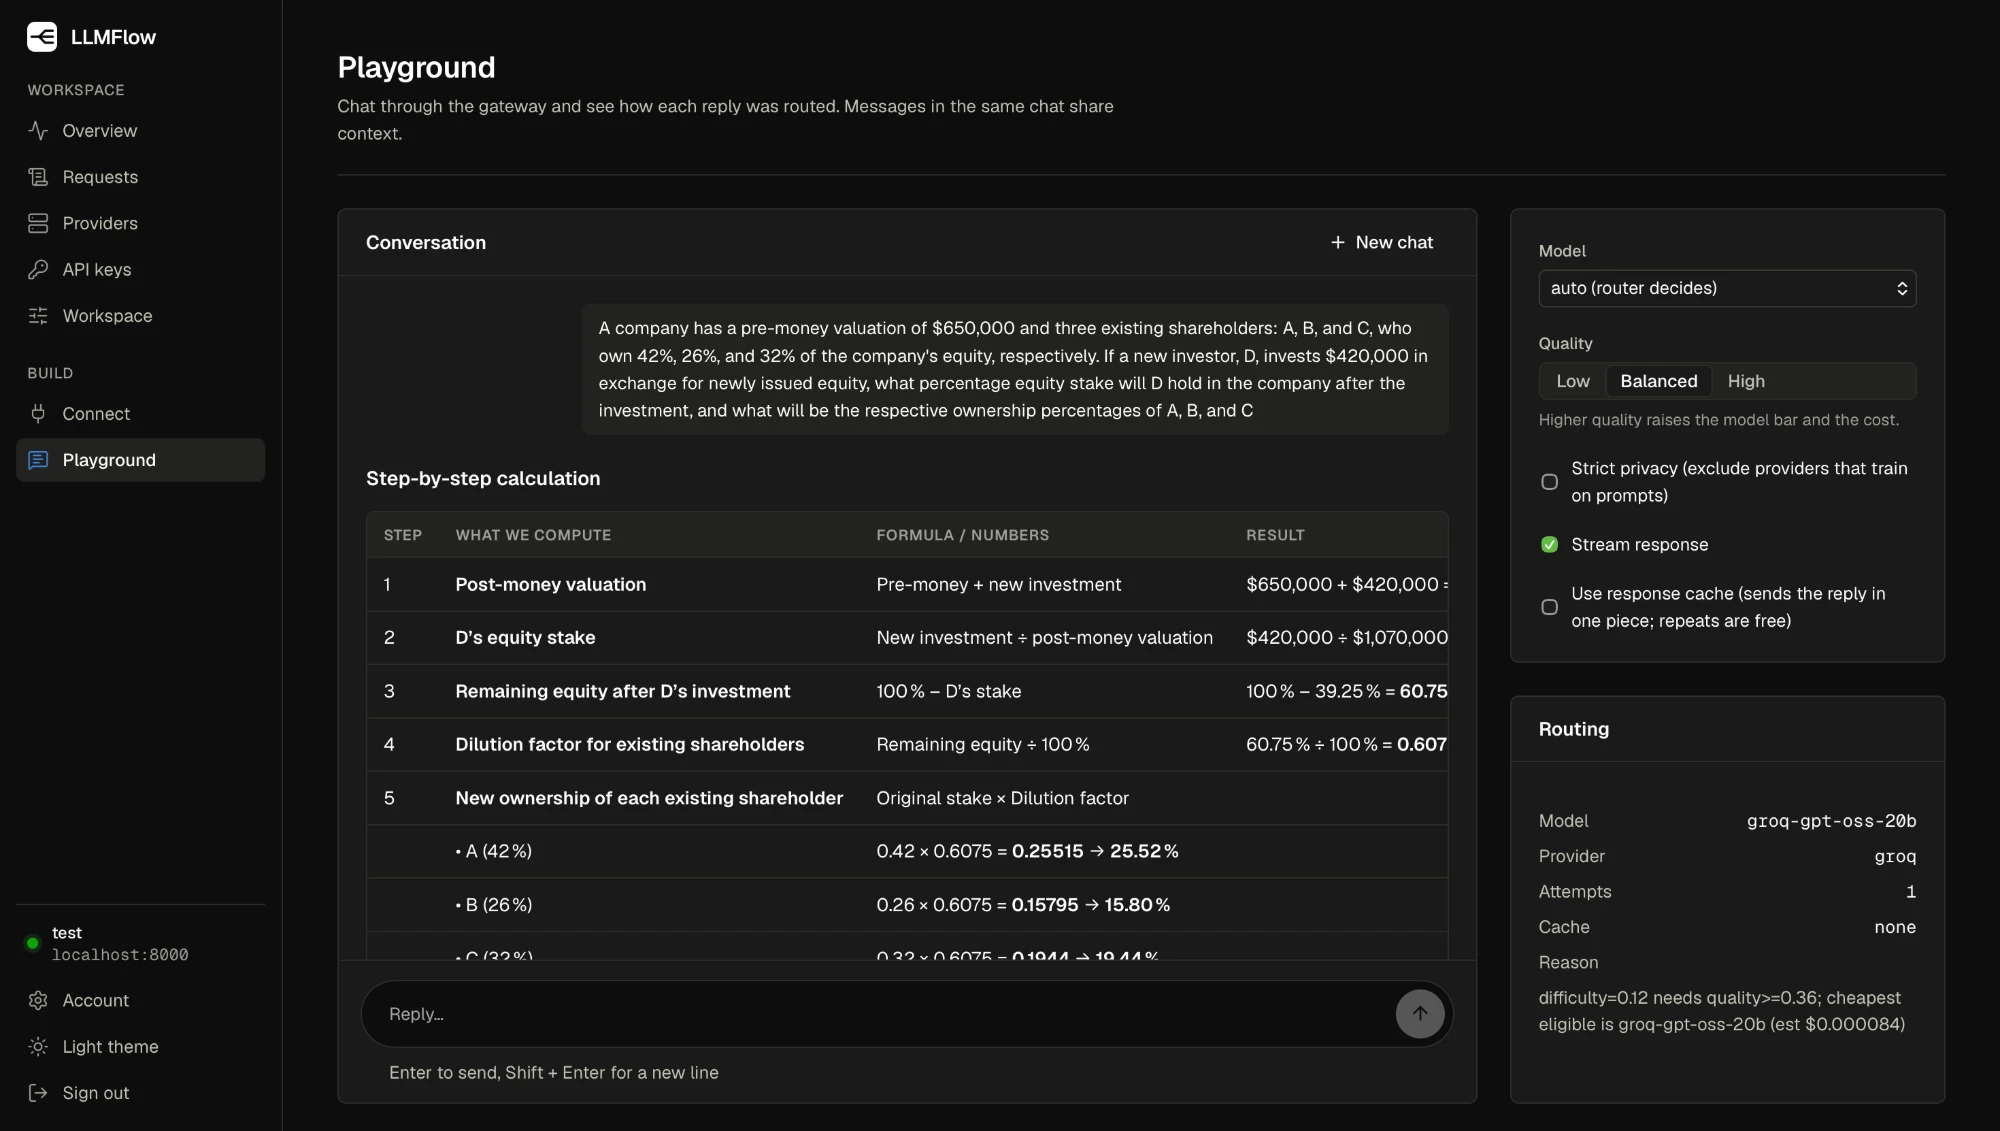
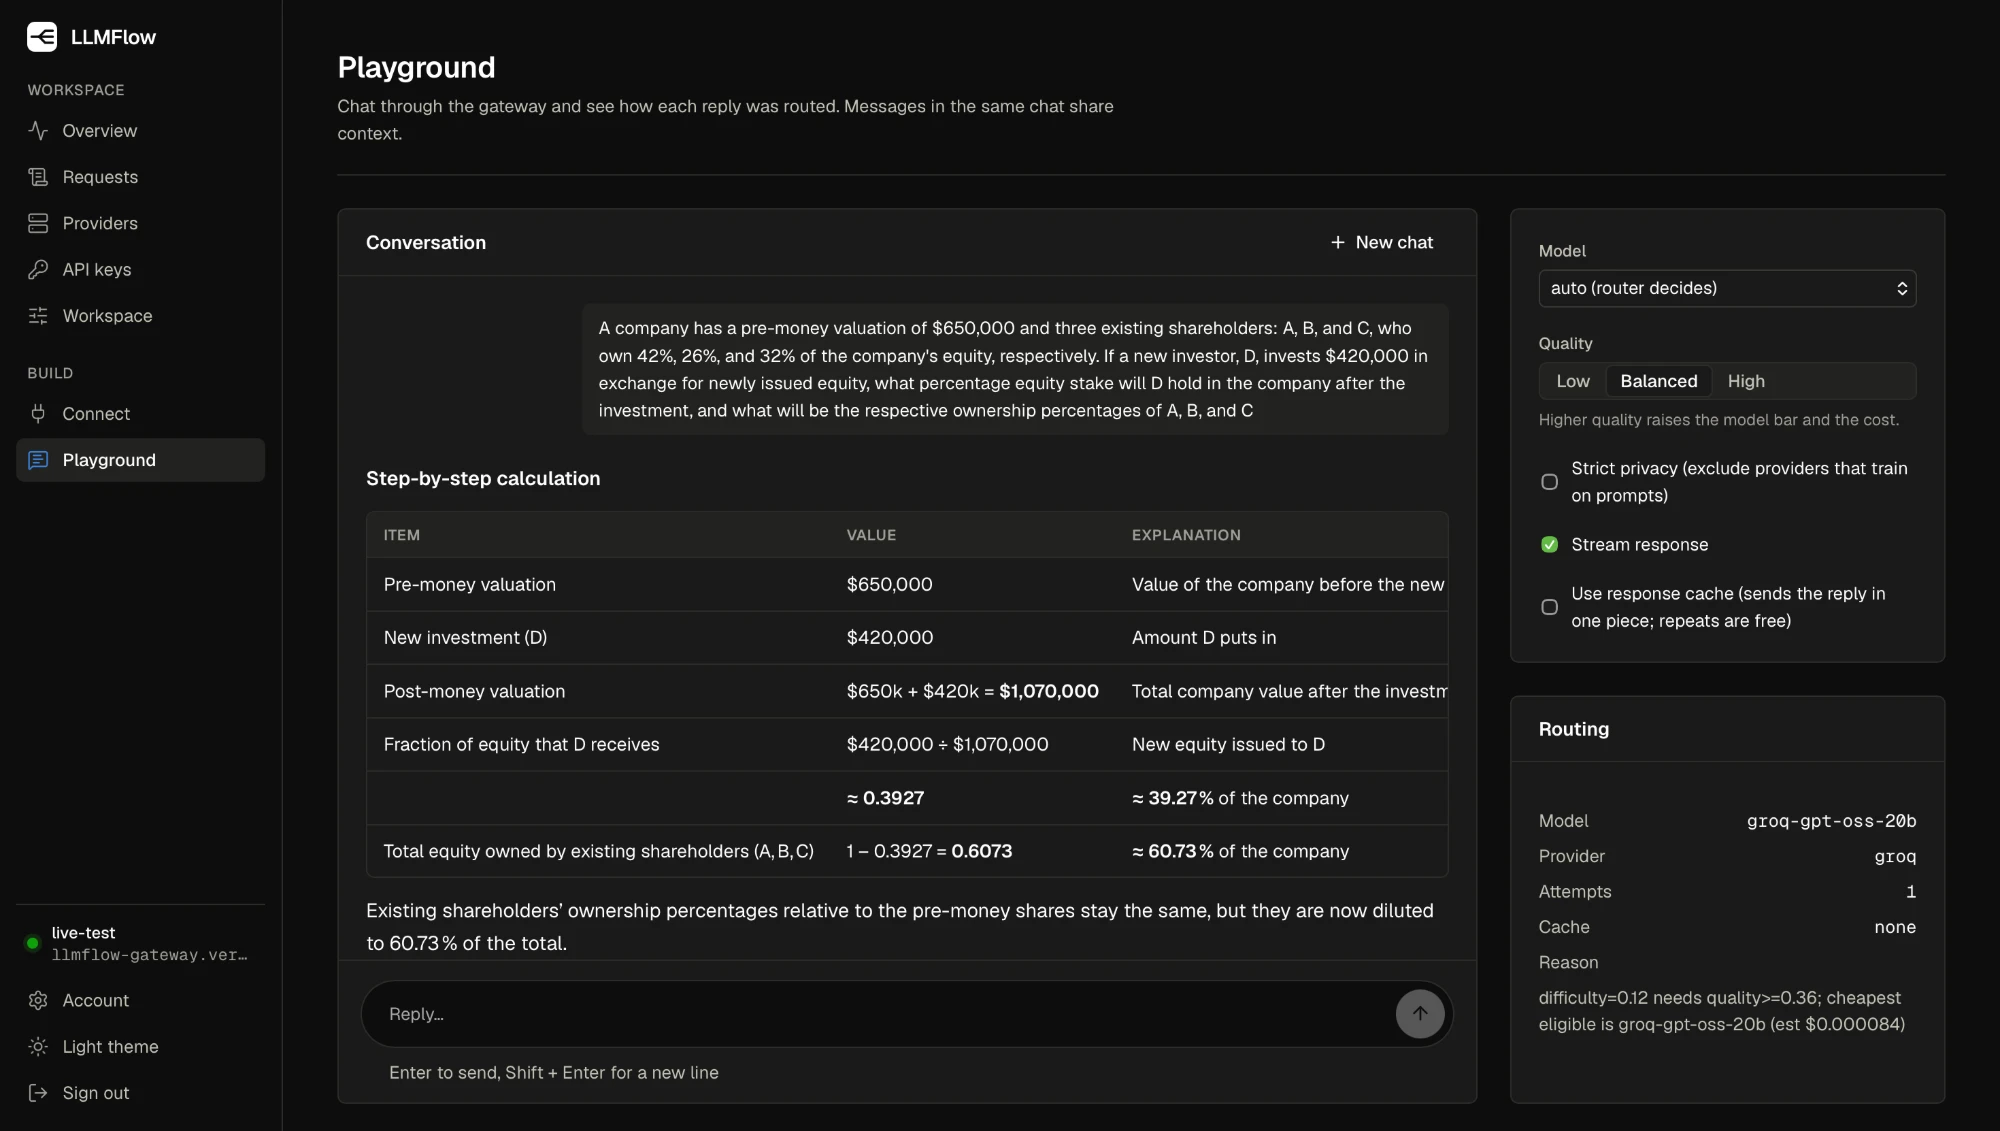
Updated README

diff --git a/README.md b/README.md
@@ -31,8 +31,8 @@ caches deterministic requests, enforces budgets, and shows you what it did and w
   <img src="docs/assets/landing-dark.png" alt="The LLMFlow landing page: headline, a short code sample using the live gateway address, and the response headers that explain each routing decision." width="100%">
 </p>
 
-The landing page (it also has a light theme). The images below come from running instances with a
-few dozen test requests (the Playground one from a local run); the dashboard itself sits behind sign-in.
+The landing page (it also has a light theme). The images below are from the live deployment with a
+few dozen test requests; the dashboard itself sits behind sign-in.
 
 **Playground**: chat through the gateway and see how each reply was routed. Messages in the same
 chat share context, even when the router picks a different model each turn; a new chat starts
@@ -40,7 +40,7 @@ fresh. Replies are rendered as formatted text (tables, math, code), and the Rout
 which model answered and why.
 
 <p align="center">
-  <img src="docs/assets/playground.png" alt="The Playground as a chat: a question about shareholder ownership after a new investment, a formatted step-by-step reply with a table, a pill-shaped message bar below it, and a Routing panel showing the reply was served by groq-gpt-oss-20b with difficulty 0.12 needing quality 0.36." width="100%">
+  <img src="docs/assets/playground.png" alt="The Playground on the live site: a question about shareholder ownership after a new investment, a formatted step-by-step reply with a table, a pill-shaped message bar below it, and a Routing panel showing the reply was served by groq-gpt-oss-20b with difficulty 0.12 needing quality 0.36." width="100%">
 </p>
 
 **Overview**: traffic, error rate, tokens, shadow cost, the estimated saving versus always using the
